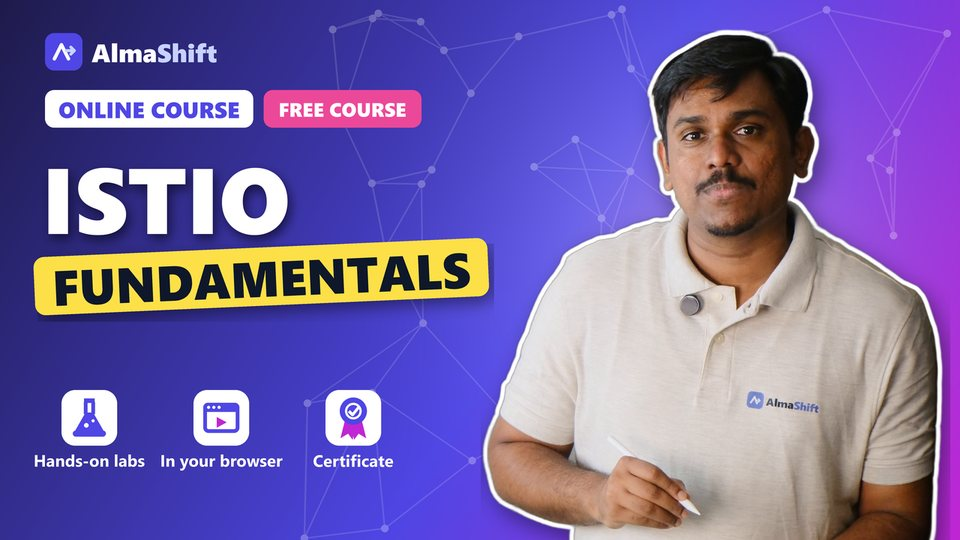
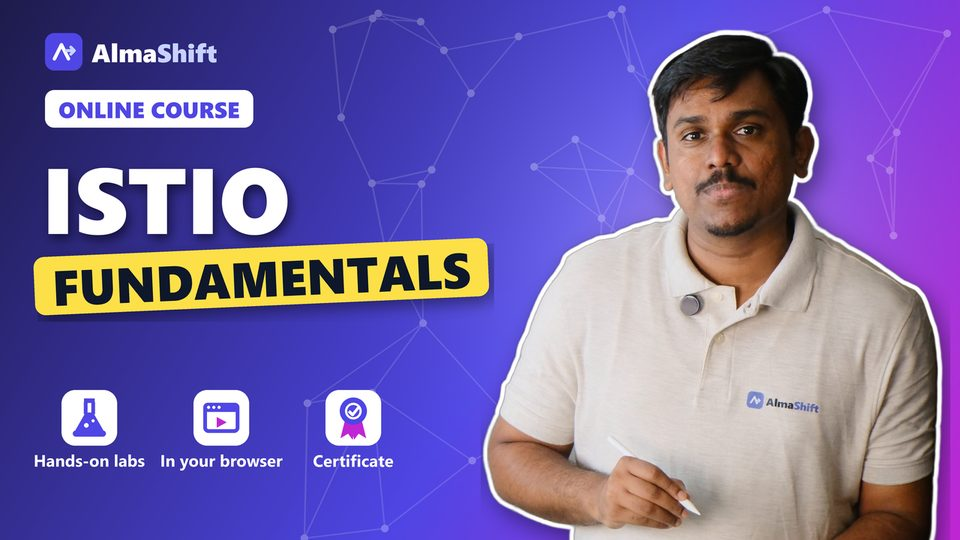
Courses: free Istio Introduction card, Istio Fundamentals as a paid course
The featured card is now the free Istio Introduction (thumbnail v3, "Start free");
Istio Fundamentals becomes a plain "View course" card with its new thumbnail.
JSON-LD moves the free offer to Istio Introduction, and the sitemap lists both courses.

Changed region(s): [[0.25, 0.1481, 0.4375, 0.237]]

diff --git a/site/index.html b/site/index.html
@@ -55,9 +55,17 @@
         "description": "Every area of Istio, from installation to troubleshooting, with graded labs that run in your browser. No cloud account needed.",
         "url": "https://learn.almashift.com/lms/courses/istio-fundamentals",
         "provider": { "@id": "https://www.almashift.com/#organization" },
+        "hasCourseInstance": { "@type": "CourseInstance", "courseMode": "Online", "courseWorkload": "PT3H" }
+      },
+      {
+        "@type": "Course",
+        "name": "Istio Introduction",
+        "description": "A free, hands-on start with Istio: why a service mesh, how Istio works, installing it and joining the mesh, with a lab that runs in your browser.",
+        "url": "https://learn.almashift.com/lms/courses/istio-introduction",
+        "provider": { "@id": "https://www.almashift.com/#organization" },
         "isAccessibleForFree": true,
         "offers": { "@type": "Offer", "price": "0", "priceCurrency": "INR", "category": "Free" },
-        "hasCourseInstance": { "@type": "CourseInstance", "courseMode": "Online", "courseWorkload": "PT3H" }
+        "hasCourseInstance": { "@type": "CourseInstance", "courseMode": "Online", "courseWorkload": "PT1H" }
       }
     ]
   }
@@ -272,8 +280,9 @@
       display: block; width: calc(100% + 50px); max-width: none; height: auto; aspect-ratio: 16 / 9; object-fit: cover;
       margin: -25px -25px 18px; border-bottom: 1px solid var(--border);
     }
+    .card:not(.featured) .card-thumb { width: calc(100% + 52px); margin: -26px -26px 18px; }
     a.card:hover .card-thumb { filter: brightness(1.04); }
-    /* Compact layout under the thumbnail: the thumbnail already says "FREE COURSE", so the pill is only for
+    /* Compact layout under the thumbnail: the thumbnail already names the course, so the pill is only for
        screen readers; instructor and the call-to-action share one row */
     .card:has(.card-thumb) .badge {
       position: absolute; width: 1px; height: 1px; overflow: hidden; clip-path: inset(50%); white-space: nowrap; margin: 0;
@@ -403,19 +412,31 @@
   <section id="courses" class="courses-band" aria-roledescription="carousel" aria-label="Top courses">
     <div class="wrap">
       <h2 class="reveal">Our top courses</h2>
-      <p class="section-sub reveal">Practical, lab-first courses from expert trainers. Start free with Istio Fundamentals.</p>
+      <p class="section-sub reveal">Practical, lab-first courses from expert trainers. Start free with Istio Introduction.</p>
       <div class="carousel reveal">
         <div class="track" tabindex="0" aria-label="Course list, scroll sideways for more">
-          <a class="card featured" href="https://learn.almashift.com/lms/courses/istio-fundamentals">
+          <a class="card featured" href="https://learn.almashift.com/lms/courses/istio-introduction">
+            <img class="card-thumb" src="img/istio-introduction.jpg" srcset="img/istio-introduction.jpg 960w, img/istio-introduction@2x.jpg 1280w"
+                 sizes="(max-width: 700px) 90vw, 360px" width="960" height="540" loading="lazy"
+                 alt="Istio Introduction free course thumbnail with instructor Feroz Shaikh">
+            <span class="badge first">Free</span>
+            <h3>Istio Introduction</h3>
+            <p>Why a service mesh, how Istio works, installing it and joining the mesh, with a lab that runs in your browser.</p>
+            <span class="card-foot">
+              <span class="instructor" aria-hidden="true"><small>Instructor</small>Feroz Shaikh</span>
+              <span class="course-meta">Start free <span class="arrow">&rarr;</span></span>
+            </span>
+          </a>
+          <a class="card" href="https://learn.almashift.com/lms/courses/istio-fundamentals">
             <img class="card-thumb" src="img/istio-fundamentals.jpg" srcset="img/istio-fundamentals.jpg 960w, img/istio-fundamentals@2x.jpg 1280w"
                  sizes="(max-width: 700px) 90vw, 360px" width="960" height="540" loading="lazy"
                  alt="Istio Fundamentals course thumbnail with instructor Feroz Shaikh: hands-on labs, in your browser, certificate">
-            <span class="badge first">Free</span>
+            <span class="badge">Istio</span>
             <h3>Istio Fundamentals</h3>
             <p>Every area of Istio, from installation to troubleshooting, with graded labs that run in your browser. No cloud account needed.</p>
             <span class="card-foot">
               <span class="instructor" aria-hidden="true"><small>Instructor</small>Feroz Shaikh</span>
-              <span class="course-meta">Start free <span class="arrow">&rarr;</span></span>
+              <span class="course-meta">View course <span class="arrow">&rarr;</span></span>
             </span>
           </a>
           <a class="card" href="https://learn.almashift.com/lms/courses">
